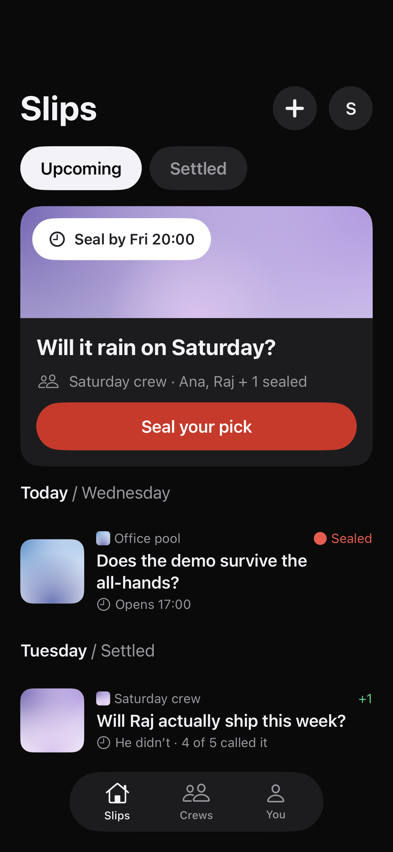
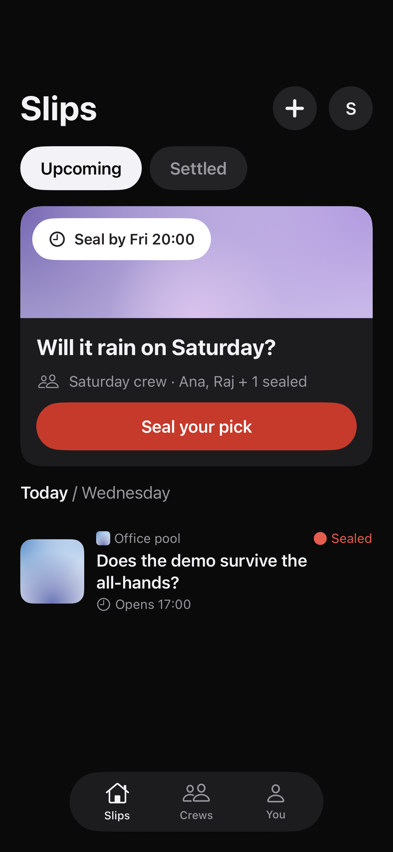
design(polish): keep settled results out of upcoming

Changed region(s): [[0.2443, 0.7324, 0.8855, 0.885], [0.0305, 0.7324, 0.2137, 0.885], [0.916, 0.7934, 0.9466, 0.8239]]

diff --git a/Slip/Screens/HomeScreens.swift b/Slip/Screens/HomeScreens.swift
@@ -76,17 +76,17 @@ struct HomeScreen: View {
                     model.go(.room)
                 }
             }
-        }
-
-        VStack(alignment: .leading, spacing: SlipSpacing.standard) {
-            HomeDayHeading(day: "Tuesday", state: "Settled")
-            HomeCompactSlipRow(
-                question: "Will Raj actually ship this week?",
-                crew: "Saturday crew",
-                detail: "He didn’t · 4 of 5 called it",
-                state: .score("+1")
-            ) {
-                model.go(.verdict)
+        } else {
+            VStack(alignment: .leading, spacing: SlipSpacing.standard) {
+                HomeDayHeading(day: "Tuesday", state: "Settled")
+                HomeCompactSlipRow(
+                    question: "Will Raj actually ship this week?",
+                    crew: "Saturday crew",
+                    detail: "He didn’t · 4 of 5 called it",
+                    state: .score("+1")
+                ) {
+                    model.go(.verdict)
+                }
             }
         }
     }

diff --git a/README.md b/README.md
@@ -116,7 +116,7 @@ substitute for an authenticated physical-device run.
 
 ## Design and documentation
 
-The [30 canonical v6 boards](docs/design/v6/) are losslessly compacted copies of the reviewed app snapshots, produced on 2026-09-05 after the Luma pass. They cover 24 routes plus three dark and three AX1 boards; v5 Paper boards are historical. Snapshot tests use serialized key-window rendering, 1× standard-range PNGs, light/dark, XL, AX1 and AX5. The 120 references total **11,191,393 bytes** after pixel-identical lossless compression; the comparison threshold remains **0.012**. Re-recording is explicit; see [testing](.claude/docs/testing.md).
+The [30 canonical v6 boards](docs/design/v6/) are losslessly compacted copies of the reviewed app snapshots, produced on 2026-09-05 after the Luma pass. They cover 24 routes plus three dark and three AX1 boards; v5 Paper boards are historical. Snapshot tests use serialized key-window rendering, 1× standard-range PNGs, light/dark, XL, AX1 and AX5. The 120 references total **11,123,615 bytes** after pixel-identical lossless compression; the comparison threshold remains **0.012**. Re-recording is explicit; see [testing](.claude/docs/testing.md).
 
 The [interactive explainer](docs/how-slip-works.html) distinguishes the current local build from the planned connected flow. It is an illustration, not a transaction receipt.
 
